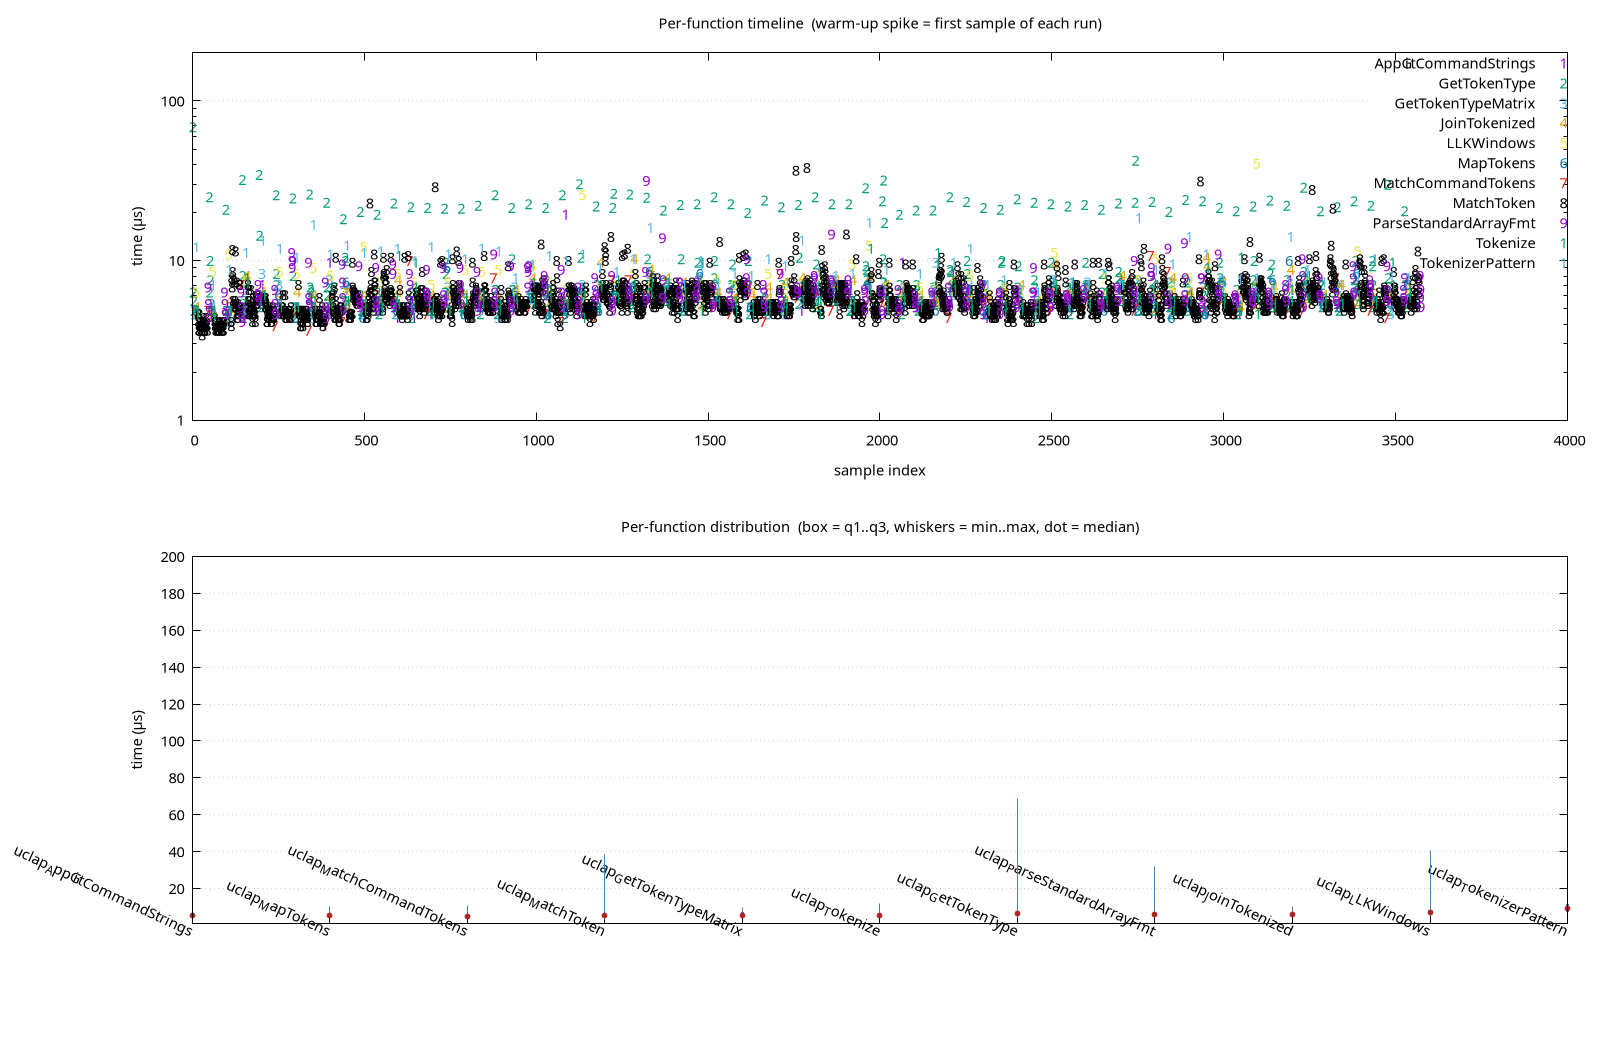
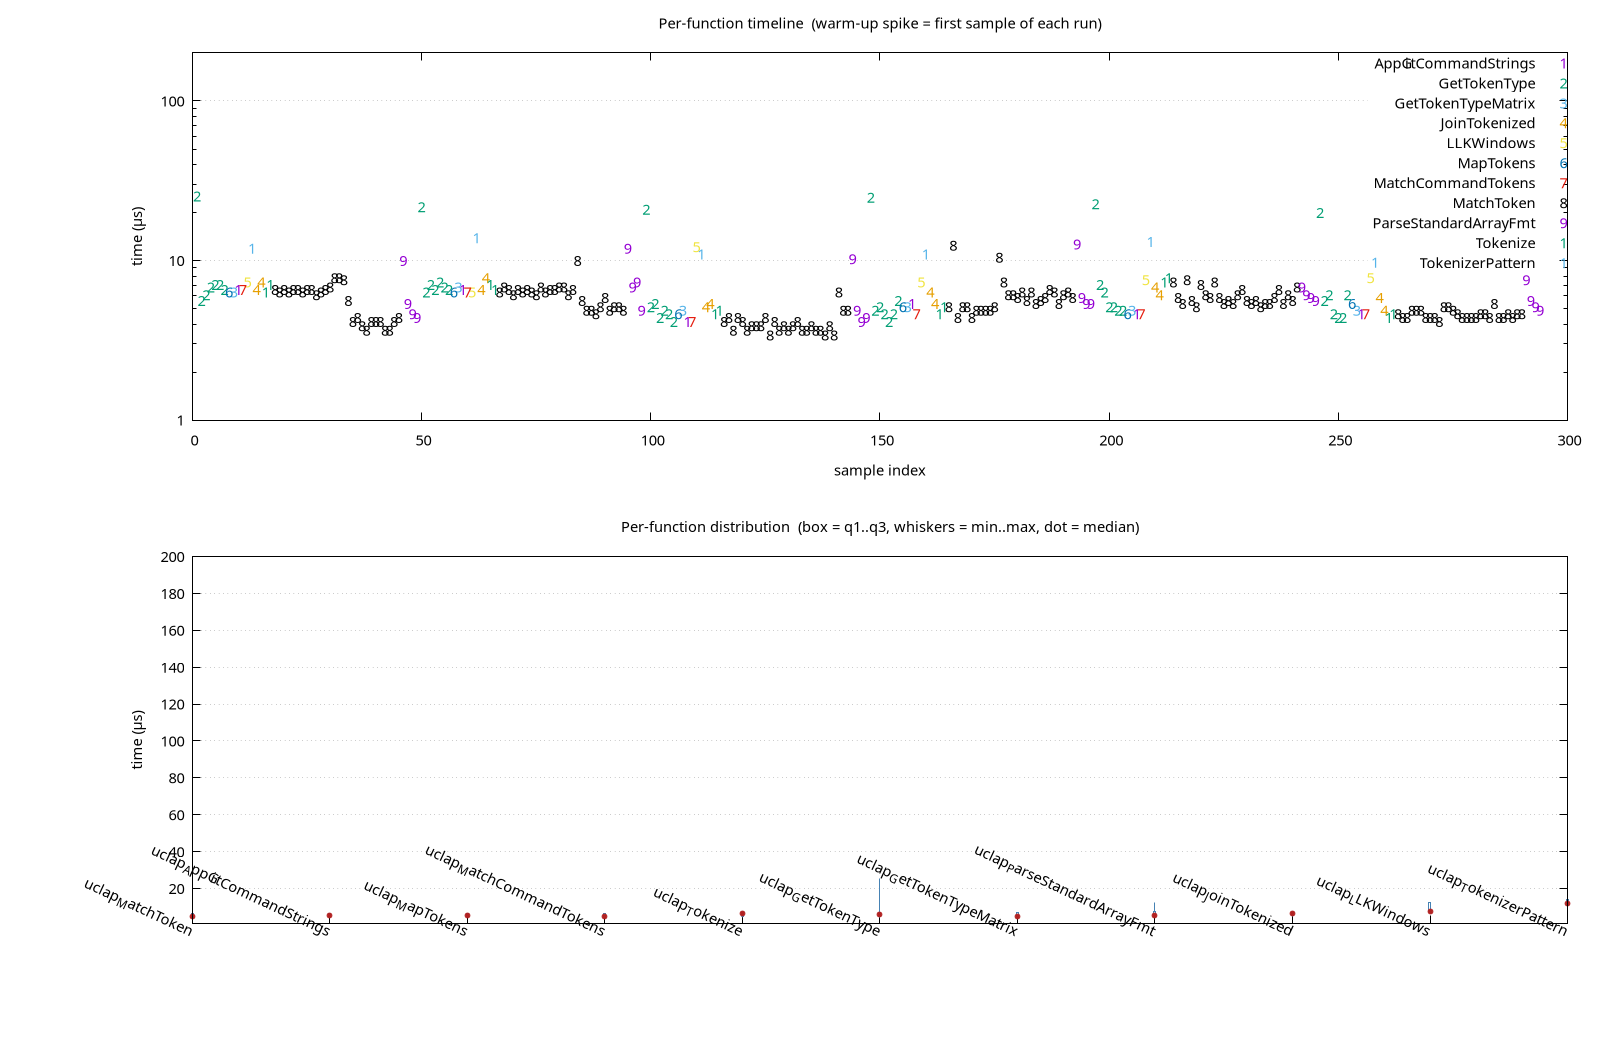
added more for the lexer matching the COMMAND tokens

diff --git a/readme.md b/readme.md
@@ -61,6 +61,11 @@ While the current release is a minimal `key=value` parser and the full CLAP-styl
 DSL is still in progress, the goal is a parser where defining an app is as
 declarative as it is in CLAP.
 
+### used in my own rag memory ststem called METALMIND
+
+  i have a WIP cli tool called METALMIND its open scorse and can be used for continuous RAG operations
+the tool ames to be small and fast while having a small footprint uiua is good for this and in combination with some ffi it makes for a fast small and fun to use engen for AI that makes RAG nice and simple 
+
 ## Project Status
 
 | Module                | Status      | Notes                                                       |
